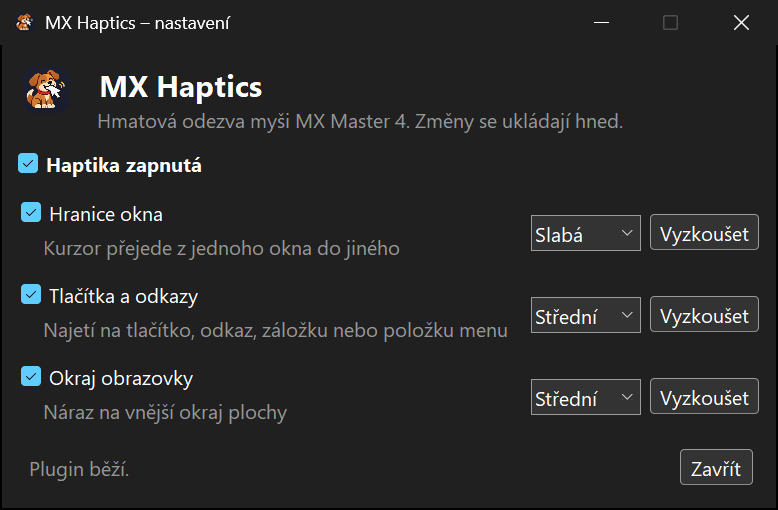
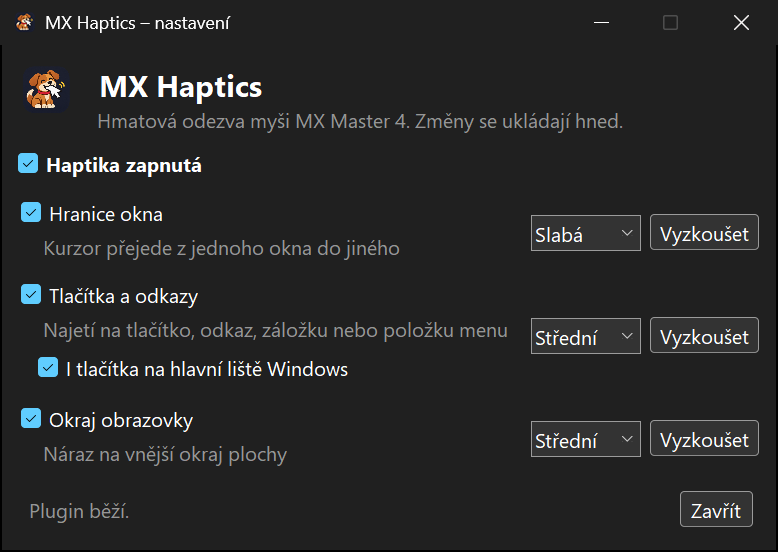
Vypínatelná haptika na hlavní liště (volba taskbarButtons)

diff --git a/settings/SettingsForm.cs b/settings/SettingsForm.cs
@@ -22,6 +22,7 @@ namespace MxHaptics.Settings
         private readonly HapticsSettings _settings;
         private readonly Boolean _readOnly;
         private readonly CheckBox _masterSwitch;
+        private readonly CheckBox _taskbarCheck;
         private readonly List<Control> _rowControls = new();
         private readonly Label _status;
         private Boolean _loading = true;
@@ -104,6 +105,23 @@ namespace MxHaptics.Settings
                 cell.Controls.Add(enabled);
                 cell.Controls.Add(desc);
 
+                if (reaction == Reactions.ControlHover)
+                {
+                    this._taskbarCheck = new CheckBox
+                    {
+                        Text = "I tlačítka na hlavní liště Windows",
+                        AutoSize = true,
+                        Checked = this._settings.TaskbarButtons,
+                        Margin = new Padding(20, 0, 16, 10),
+                    };
+                    this._taskbarCheck.CheckedChanged += (_, _) =>
+                    {
+                        this._settings.TaskbarButtons = this._taskbarCheck.Checked;
+                        this.SaveAndNotify();
+                    };
+                    cell.Controls.Add(this._taskbarCheck);
+                }
+
                 var strength = new ComboBox { DropDownStyle = ComboBoxStyle.DropDownList, Width = 110, Anchor = AnchorStyles.Left, Margin = new Padding(0, 8, 8, 0) };
                 strength.Items.AddRange(StrengthLabels);
                 strength.SelectedIndex = (Int32)rs.Strength;
@@ -113,7 +131,7 @@ namespace MxHaptics.Settings
                 enabled.CheckedChanged += (_, _) =>
                 {
                     rs.Enabled = enabled.Checked;
-                    strength.Enabled = enabled.Checked && this._settings.Enabled;
+                    this.UpdateEnabledState();
                     this.SaveAndNotify();
                 };
                 strength.SelectedIndexChanged += (_, _) =>
@@ -168,6 +186,8 @@ namespace MxHaptics.Settings
                 this._rowControls[i + 1].Enabled = on && enabled.Checked;
                 this._rowControls[i + 2].Enabled = on;
             }
+
+            this._taskbarCheck.Enabled = on && this._settings.ControlHover.Enabled;
         }
 
         private void SaveAndNotify()

diff --git a/src/PointerWatcher.cs b/src/PointerWatcher.cs
@@ -39,9 +39,14 @@ namespace Loupedeck.MxHapticsPlugin
         private readonly CancellationTokenSource _cts = new();
         private readonly Stopwatch _clock = Stopwatch.StartNew();
         private Thread _windowThread;
+        private readonly Func<Boolean> _taskbarEnabled;
         private Thread _controlThread;
 
-        public PointerWatcher(Action<String> raise) => this._raise = raise;
+        public PointerWatcher(Action<String> raise, Func<Boolean> taskbarEnabled)
+        {
+            this._raise = raise;
+            this._taskbarEnabled = taskbarEnabled;
+        }
 
         public void Start()
         {
@@ -165,7 +170,8 @@ namespace Loupedeck.MxHapticsPlugin
                     }
 
                     // hlavní lišta Windows 11 je pro MSAA jeden blok, tlačítka bere z UI Automation
-                    if (!taskbar.TryGetKey(p, this.Now, out var key))
+                    String key = null;
+                    if (!this._taskbarEnabled() || !taskbar.TryGetKey(p, this.Now, out key))
                     {
                         key = FindClickableKey(p);
                     }

diff --git a/shared/HapticsSettings.cs b/shared/HapticsSettings.cs
@@ -55,6 +55,9 @@ namespace MxHaptics.Shared
 
         public ReactionSettings ScreenEdge { get; set; } = new() { Strength = Strength.Medium };
 
+        /// <summary>Reakce <see cref="Reactions.ControlHover"/> i na tlačítkách hlavní lišty Windows (UI Automation).</summary>
+        public Boolean TaskbarButtons { get; set; } = true;
+
         public static String DirectoryPath =>
             Path.Combine(Environment.GetFolderPath(Environment.SpecialFolder.LocalApplicationData), "MxHaptics");
 

diff --git a/src/MxHapticsPlugin.cs b/src/MxHapticsPlugin.cs
@@ -28,7 +28,7 @@ namespace Loupedeck.MxHapticsPlugin
         {
             this.ReloadSettings();
 
-            this._watcher = new PointerWatcher(this.RaiseReaction);
+            this._watcher = new PointerWatcher(this.RaiseReaction, () => this._settings.TaskbarButtons);
             this._watcher.Start();
 
             this._pipe = new ControlPipeServer(this.HandleCommand);

diff --git a/AGENTS.md b/AGENTS.md
@@ -49,6 +49,7 @@ Logi Plugin Service. Nastavení má samostatné WinForms okno (`settings/`), iko
 - Hit-test přes MSAA i UIA (lišta) může v zaseknuté aplikaci/Exploreru blokovat. Proto běží ve vlastním vlákně odděleném od detekce oken; tohle oddělení zachovej.
 - Hlavní lišta: MSAA ani UIA `ElementFromPoint` do XAML lišty nevidí, proto `FindAll` tlačítek + vlastní hit-test. UIA vrací fyzické
   pixely, porovnávej s `GetPhysicalCursorPos`. Rozhraní v `TaskbarButtons.cs` jsou prefixy vtable z `UIAutomationClient.h`, pořadí nepřehazuj.
+- Lišta jde vypnout volbou `taskbarButtons` v JSON (výchozí `true`, v okně pod řádkem „Tlačítka a odkazy“). Plugin ji čte při každém vzorku přes delegát z `MxHapticsPlugin`.
 - Ikonu dodává uživatel. Nekresli vlastní ani ji neupravuj. `Icon256x256.png` je zmenšenina `design/icon-source.png` na 256 × 256 (bikubicky).
   Při nové ikoně nahraď obojí a pusť `pwsh tools/Convert-IconToIco.ps1`.
 - Po změně vzhledu okna přegeneruj screenshoty: `build\settings\MxHapticsSettings.exe --screenshot docs\screenshots\nastaveni-<dark|light>.png --theme <dark|light>`.

diff --git a/README.md b/README.md
@@ -55,6 +55,7 @@ V okně můžeš:
 
 - celou haptiku zapnout nebo vypnout,
 - každou reakci zvlášť zapnout nebo vypnout,
+- u reakce *Tlačítka a odkazy* vypnout tlačítka na hlavní liště Windows (*I tlačítka na hlavní liště Windows*),
 - zvolit sílu reakce: slabá (`subtle_collision`), střední (`damp_collision`), silná (`sharp_collision`),
 - tlačítkem *Vyzkoušet* si vibraci hned ohmatat (funguje i u vypnuté reakce).
 
